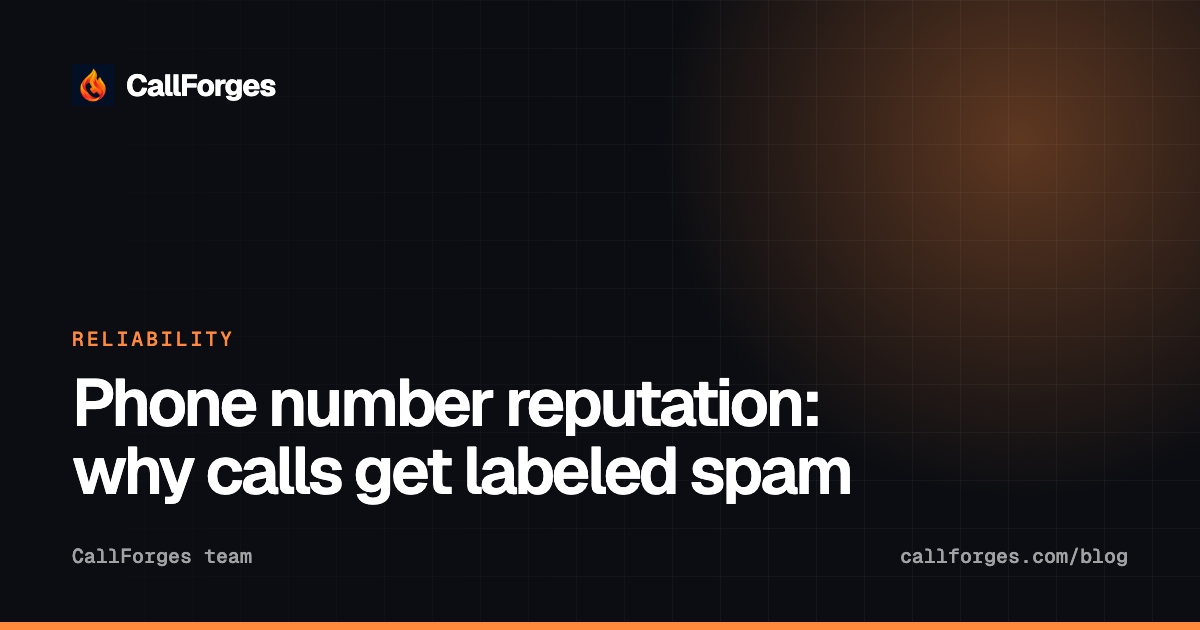
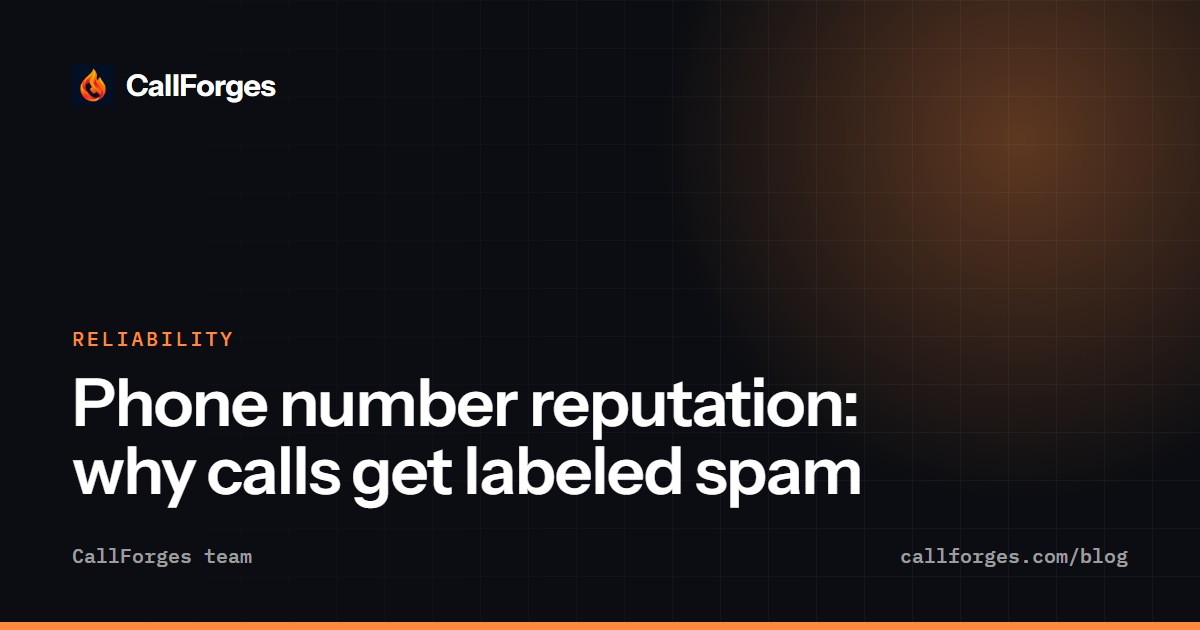
blog: covers in Instrument Sans and IBM Plex Mono
Regenerates the 12 post covers with the site's fonts, updates the cover
template for future posts, and makes the cover tools work on Windows paths.

diff --git a/_blog/tools/cover.html b/_blog/tools/cover.html
@@ -2,19 +2,19 @@
 <html lang="en">
 <head>
 <meta charset="utf-8">
-<link rel="stylesheet" href="https://fonts.googleapis.com/css2?family=Geist:wght@500;600;700&family=Geist+Mono:wght@500&display=block">
+<link rel="stylesheet" href="https://fonts.googleapis.com/css2?family=Instrument+Sans:wght@500;600;700&family=IBM+Plex+Mono:wght@500&display=block">
 <style>
   *{box-sizing:border-box;margin:0}
   html,body{width:1200px;height:630px;overflow:hidden}
-  body{position:relative;background:#0b0d12;color:#fff;font-family:"Geist","Helvetica Neue",Arial,sans-serif;padding:64px 72px}
+  body{position:relative;background:#0b0d12;color:#fff;font-family:"Instrument Sans","Helvetica Neue",Arial,sans-serif;padding:64px 72px}
   .glow{position:absolute;right:-180px;top:-220px;width:720px;height:720px;border-radius:50%;background:radial-gradient(closest-side,rgba(255,138,61,.34),rgba(255,138,61,0))}
   .grid{position:absolute;inset:0;background-image:linear-gradient(rgba(255,255,255,.04) 1px,transparent 1px),linear-gradient(90deg,rgba(255,255,255,.04) 1px,transparent 1px);background-size:48px 48px;mask-image:linear-gradient(90deg,transparent,#000 70%)}
   .wrap{position:relative;height:100%;display:flex;flex-direction:column}
-  .brand{display:flex;align-items:center;gap:12px;font-weight:700;font-size:30px;letter-spacing:-.03em}
+  .brand{display:flex;align-items:center;gap:12px;font-weight:700;font-size:30px;letter-spacing:-.015em}
   .brand img{width:42px;height:42px}
-  .kicker{margin-top:auto;font:500 20px/1 "Geist Mono",Menlo,monospace;letter-spacing:.14em;text-transform:uppercase;color:#ff8a3d}
-  h1{margin-top:20px;max-width:960px;font-weight:600;font-size:{{size}}px;line-height:1.04;letter-spacing:-.045em;text-wrap:balance}
-  .foot{margin-top:40px;display:flex;justify-content:space-between;align-items:center;font:500 20px/1 "Geist Mono",Menlo,monospace;color:rgba(255,255,255,.62)}
+  .kicker{margin-top:auto;font:500 20px/1 "IBM Plex Mono",Menlo,monospace;letter-spacing:.14em;text-transform:uppercase;color:#ff8a3d}
+  h1{margin-top:20px;max-width:960px;font-weight:600;font-size:{{size}}px;line-height:1.04;letter-spacing:-.02em;text-wrap:balance}
+  .foot{margin-top:40px;display:flex;justify-content:space-between;align-items:center;font:500 20px/1 "IBM Plex Mono",Menlo,monospace;color:rgba(255,255,255,.62)}
   .bar{position:absolute;left:0;bottom:0;width:100%;height:8px;background:#ff8a3d}
 </style>
 </head>

diff --git a/_blog/tools/render_png.py b/_blog/tools/render_png.py
@@ -6,6 +6,7 @@ scale defaults to 2 (sharp on phones and retina screens). Covers use 1: LinkedIn
 Set CHROME=/path/to/chrome when Chrome is not in a usual place.
 """
 import os
+import pathlib
 import shutil
 import subprocess
 import sys
@@ -35,7 +36,7 @@ def render(src, out, width, height, scale=2):
         done = subprocess.run([chrome(), '--headless=new', '--disable-gpu', '--hide-scrollbars', '--no-first-run',
                                f'--user-data-dir={profile}', f'--force-device-scale-factor={scale}',
                                f'--window-size={width},{height}', '--virtual-time-budget=5000',
-                               f'--screenshot={os.path.abspath(out)}', 'file://' + os.path.abspath(src)],
+                               f'--screenshot={os.path.abspath(out)}', pathlib.Path(src).resolve().as_uri()],
                               capture_output=True, text=True, timeout=120)
     if not os.path.exists(out):
         raise SystemExit(f'Chrome made no image: {done.stderr.strip()[-400:]}')

diff --git a/_blog/tools/make_cover.py b/_blog/tools/make_cover.py
@@ -8,6 +8,7 @@ when it exists.
 """
 import html
 import os
+import pathlib
 import re
 import sys
 
@@ -24,7 +25,7 @@ def main(slug):
     title = meta['title']
     size = 76 if len(title) <= 40 else 66 if len(title) <= 62 else 56
     page = open(os.path.join(HERE, 'cover.html')).read()
-    for k, v in {'logo': 'file://' + os.path.join(REPO, 'callforge-mark.png'), 'kicker': html.escape(meta.get('kicker') or 'Blog'),
+    for k, v in {'logo': pathlib.Path(REPO, 'callforge-mark.png').as_uri(), 'kicker': html.escape(meta.get('kicker') or 'Blog'),
                  'title': html.escape(title), 'size': str(size)}.items():
         page = page.replace('{{' + k + '}}', v)
     tmp = os.path.join(HERE, f'.cover-{slug}.html')
